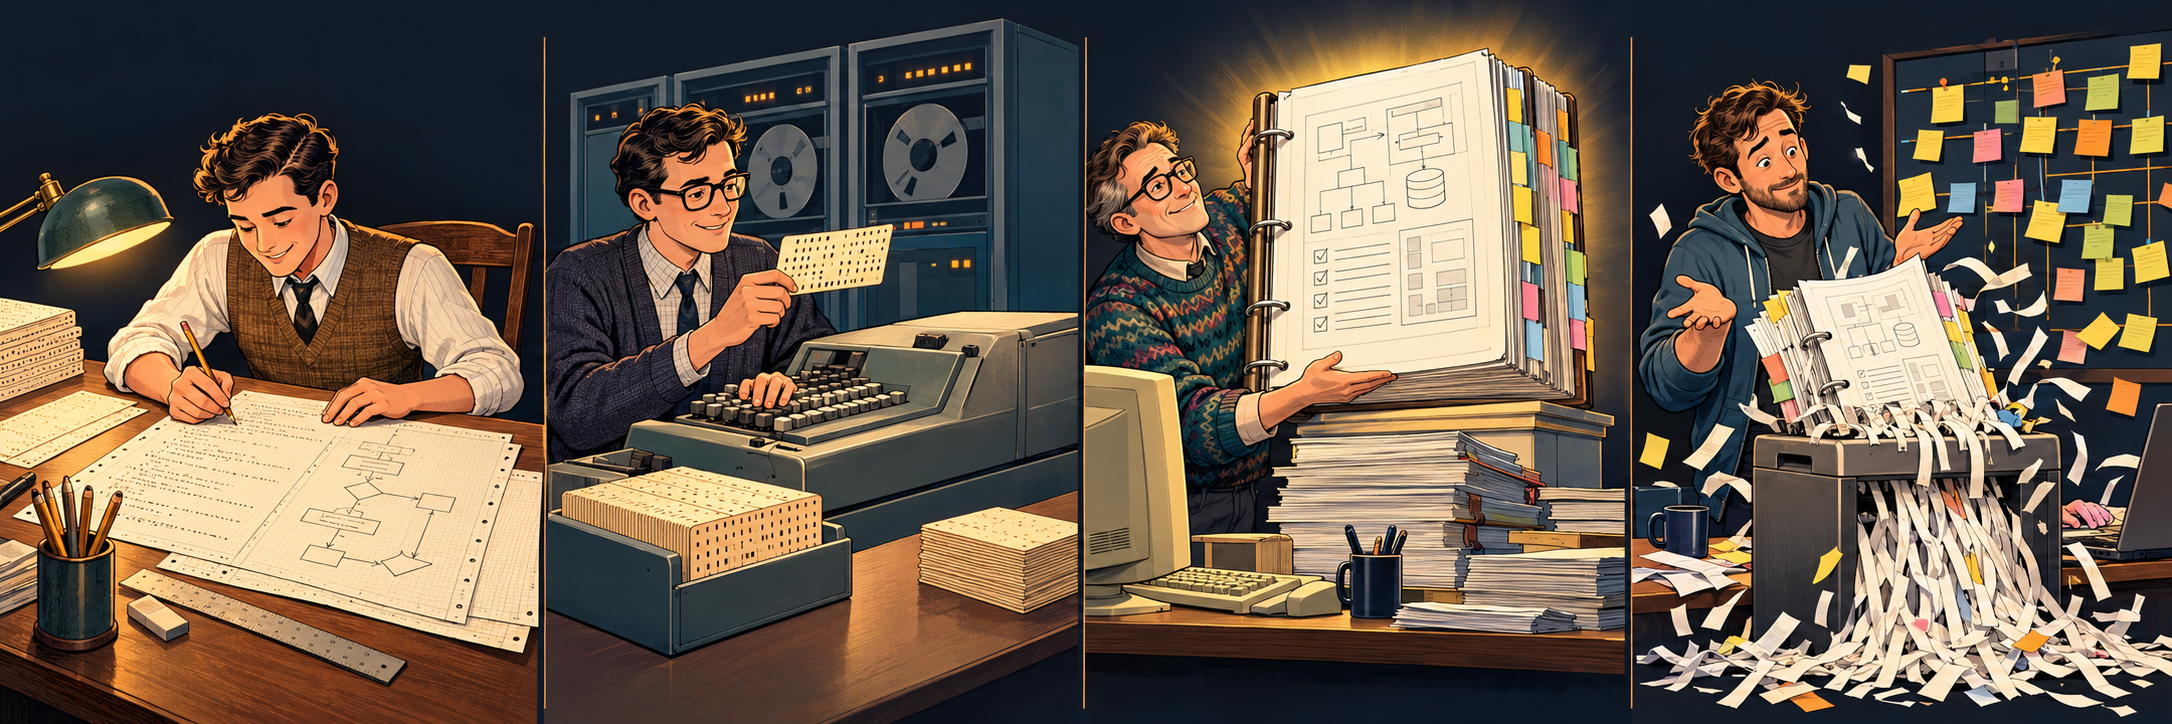
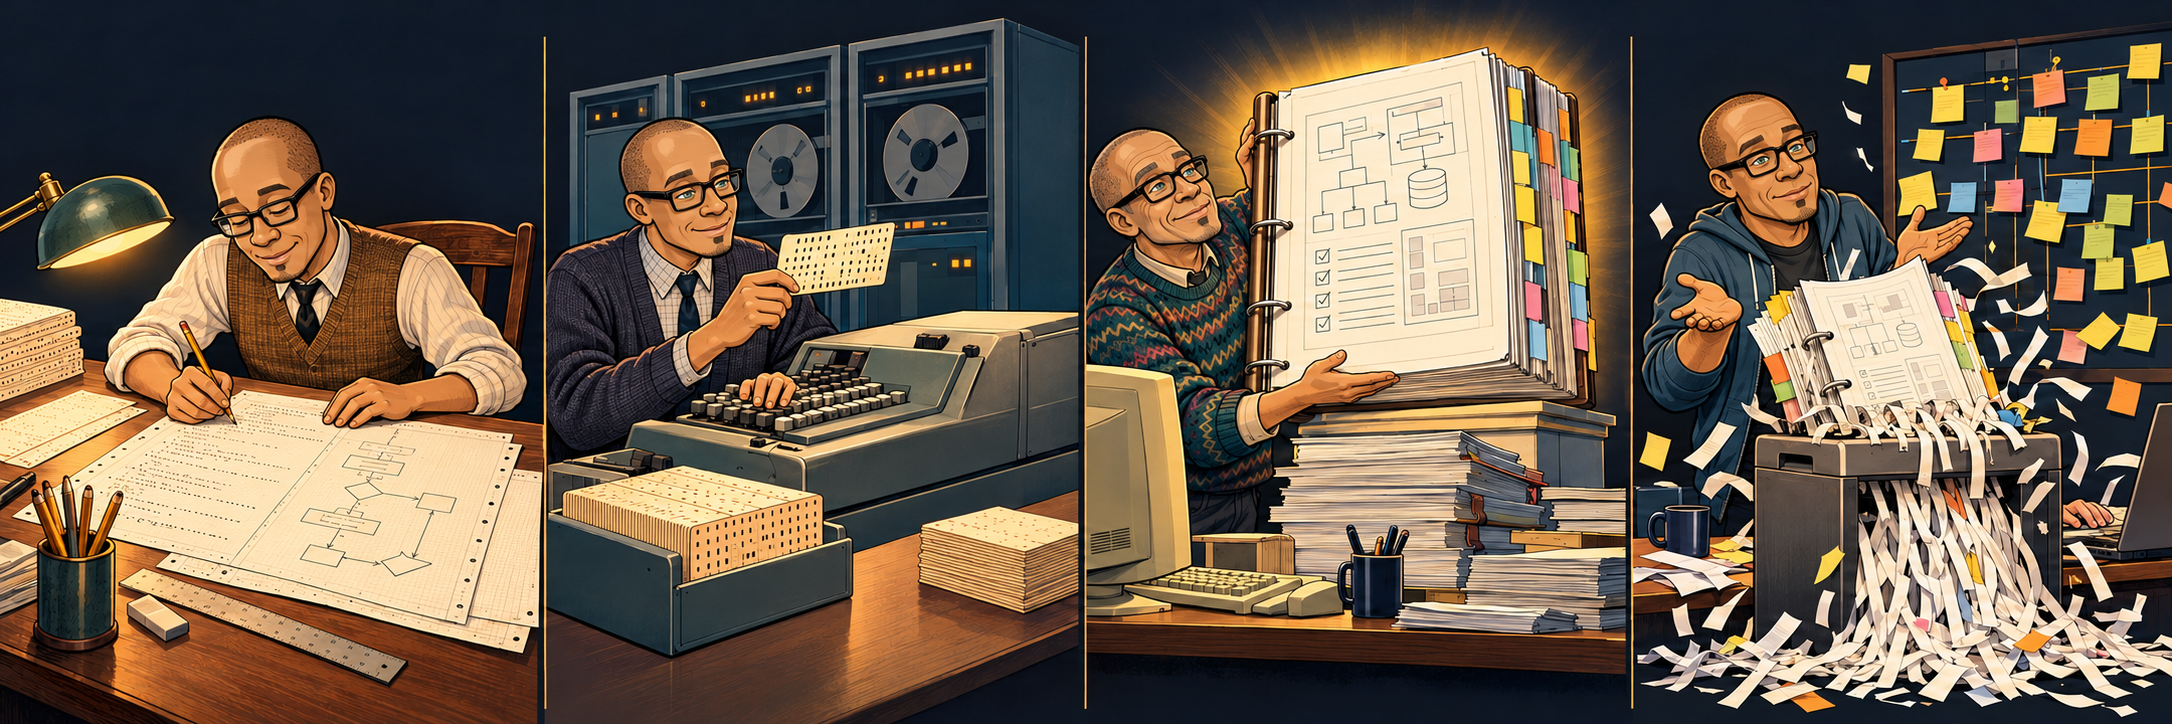
docs(sdd): use Rodney likeness in illustrations

diff --git a/sdlc/specification-driven-development/slides/slides.md b/sdlc/specification-driven-development/slides/slides.md
@@ -71,7 +71,7 @@ class: illustrated
 <div style="margin: 0.75rem 0 0.5rem;">
   <img
     src="/images/development-before-times.png"
-    alt="Four illustrated eras: a developer writes a program on paper, operates a keypunch machine, presents an enormous 1990s specification binder, then watches its pages get shredded beside a board of scattered tickets."
+    alt="Four illustrated eras with Rodney's likeness, a closely shaved head and black rectangular glasses: he writes a program on paper, operates a keypunch machine, presents an enormous 1990s specification binder, then watches its pages get shredded beside a board of scattered tickets."
     style="display: block; width: 100%; height: auto;"
   />
 </div>
@@ -210,7 +210,7 @@ class: illustrated
 <div style="margin: 0.75rem 0 0.5rem;">
   <img
     src="/images/specification-old-busted-hotness.png"
-    alt="Three scenes with developers in era-appropriate casual clothes: an older programmer in a patterned sweater beside a dusty specification binder, a young programmer in a hoodie surrounded by AI chat prompts, then an older developer in a cardigan using the specification to guide an AI assistant through tests and code."
+    alt="Three scenes with Rodney's likeness, a closely shaved head and black rectangular glasses, in era-appropriate casual clothes: an older programmer in a patterned sweater beside a dusty specification binder, a younger programmer in a hoodie surrounded by AI chat prompts, then an older developer in a cardigan using the specification to guide an AI assistant through tests and code."
     style="display: block; width: 100%; height: auto;"
   />
 </div>
